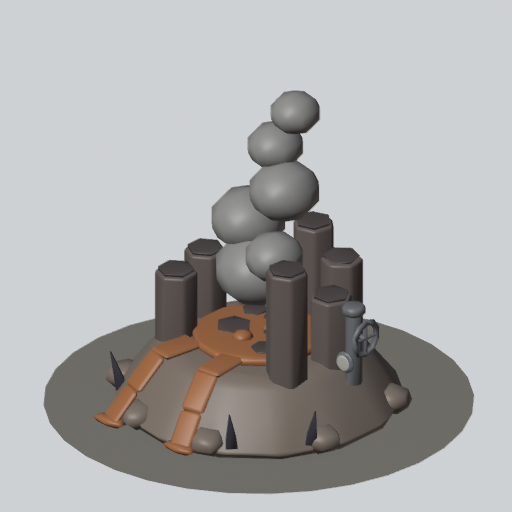
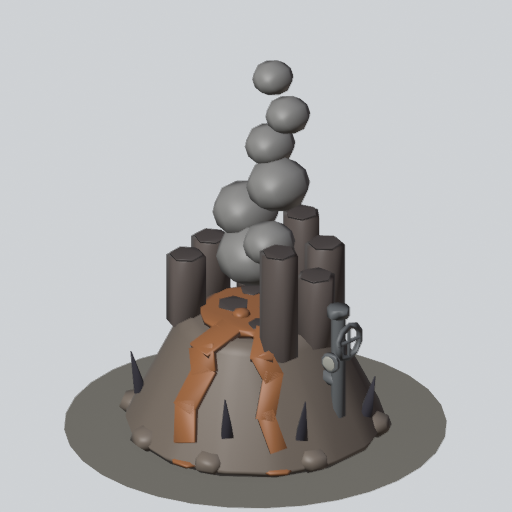
art: Volcano Vent (VENT) bolder upgrades - S1 steep cone twice as tall with the basalt ring on its rim and lava streams, S2 taller still, erupting lava fountains, glowing column tips, brass collar (#443)

Changed region(s): [[0.0625, 0.0938, 0.9375, 1.0]]

diff --git a/tools/art/models/tower/_vent.py b/tools/art/models/tower/_vent.py
@@ -6,10 +6,13 @@ conventions). The columns in the back-right (the owner flag's corner) stay short
 
 Stage 0 (tiers 0-2): the mound, nine basalt columns, the lava pool and crust plates, a lava
                      run down the front, three smoke puffs, scattered rocks.
-Stage 1 (tier 3):    taller columns, a second lava run, obsidian shards, a hunters' pressure
-                     valve (pipe, wheel, gauge) bolted to a column, a bigger plume.
-Stage 2 (tier 5):    brass valve wheel, gauge and pipe bands, the lava glowing, embers in the
-                     smoke.
+Stage 1 (tier 3):    a TALLER CONE - the mound rises into a steep volcano cone twice as high, the
+                     basalt ring (taller columns) on its crater rim, two lava runs down its
+                     slopes, obsidian shards, a hunters' pressure valve, a bigger plume.
+Stage 2 (tier 5):    taller still and ERUPTING - glowing lava fountains bursting up from the
+                     rim, four glowing lava rivers and the pool, glowing column tips round the
+                     rim (the crown), a brass collar round the cone and a brass valve rig.
+                     The crater's middle stays open (the Fire Mountain cone covers it).
 """
 
 import importlib.util
@@ -34,72 +37,104 @@ MOUND_H = 0.62
 def build(lp, stage):
     k = K.Kit(lp)
     hot = stage >= 2
+    lean = stage >= 1
     lava_group = "glow" if hot else "lava"
+    MH = (MOUND_H, 1.25, 1.65)[stage]  # the cone's height: the upgrades raise it
+    TOP = (0.66, 0.56, 0.5)[stage]  # its top radius / base radius
+    RIM = 0.78 if stage == 0 else 1.42 * TOP - 0.06  # the column ring
+
+    def slope(r):  # the cone surface's height at radius r
+        return max(0.05, MH * (1 - r / 1.42) / (1 - TOP))
 
     # the mound
-    k.add("ash", K.cyl((0, MOUND_H / 2, 0), 1.42, MOUND_H, 14, top=0.66, bevel=0.1))
+    k.add("ash", K.cyl((0, MH / 2, 0), 1.42, MH, 14, top=TOP, bevel=0.1))
     k.add("ash", *[K.ell((math.cos(a) * 1.25, 0.12, math.sin(a) * 1.25), (0.22, 0.14, 0.18), 7, 3, rot=(0, -math.degrees(a), 0))
                    for a in (math.radians(d) for d in (150, 200, 250, 290, 330))])  # rocks round the foot
 
     # the ring of hexagonal basalt columns (short in the back-right)
-    cols, tops = [], []
+    cols, tops, tipy = [], [], []
     n = 9
     for i in range(n):
         a = 2 * math.pi * i / n + 0.15
-        x, z = math.cos(a) * 0.78, math.sin(a) * 0.78
-        if z < -0.55:
+        x, z = math.cos(a) * RIM, math.sin(a) * RIM
+        if z < -0.55 * RIM / 0.78:
             continue  # a gap at the front where the lava spills out
         flag = x > 0.2 and z > 0.2  # toward the owner flag's corner
         h = (0.35 if flag else 0.5 + ((i * 7) % 4) * 0.14) + (0.25 if stage >= 1 and not flag else 0.0)
-        y0 = MOUND_H - 0.12
-        cols.append(K.cyl((x, y0 + h / 2, z), 0.21, h, 6, bevel=0.03, rot=(0, (i * 23) % 60, 0)))
+        y0 = MH - 0.12
+        cols.append(K.cyl((x, y0 + h / 2, z), 0.21, h, 6, bevel=0 if lean else 0.03, rot=(0, (i * 23) % 60, 0)))
+        tipy.append((x, y0 + h, z, flag))
         tops.append(K.cyl((x, y0 + h + 0.015, z), 0.17, 0.03, 6, bevel=0.0, rot=(0, (i * 23) % 60, 0)))
     k.add("body", *cols)
     k.add("crust", *tops)
 
     # the lava pool in the crater with crust plates on it
-    k.add(lava_group, K.cyl((0, MOUND_H + 0.03, 0), 0.62, 0.1, 14, bevel=0.03), piece="pool")
-    k.add("crust", *[K.cyl((x, MOUND_H + 0.08, z), r, 0.04, 6, bevel=0.0, rot=(0, rr, 0)) for x, z, r, rr in
+    k.add(lava_group, K.cyl((0, MH + 0.03, 0), RIM - 0.16, 0.1, 14, bevel=0 if lean else 0.03), piece="pool")
+    k.add("crust", *[K.cyl((x, MH + 0.08, z), r, 0.04, 6, bevel=0.0, rot=(0, rr, 0)) for x, z, r, rr in
                      ((-0.22, 0.12, 0.2, 10), (0.24, -0.08, 0.17, 40), (0.06, 0.34, 0.14, 25), (-0.3, -0.25, 0.13, 5), (0.32, 0.3, 0.12, 50))])
-    k.add(lava_group, *[K.ell((x, MOUND_H + 0.08, z), (r, r * 0.7, r), 8, 4) for x, z, r in ((0.02, -0.2, 0.1), (-0.05, 0.1, 0.07))],
+    k.add(lava_group, *[K.ell((x, MH + 0.08, z), (r, r * 0.7, r), 8, 4) for x, z, r in ((0.02, -0.2, 0.1), (-0.05, 0.1, 0.07))],
           piece="blobs")
 
     # lava runs down the front of the mound
-    runs = [(-0.15, -0.12)] + ([(0.35, 0.25)] if stage >= 1 else [])
     run_parts = []
-    for x0, dx in runs:
-        a, b = (x0, MOUND_H + 0.04, -0.5), (x0 + dx * 0.3, MOUND_H + 0.03, -0.92)
-        c, d = (x0 + dx * 0.65, 0.36, -1.18), (x0 + dx, 0.08, -1.4)
-        run_parts += [K.bar(a, b, 0.26, 0.07, bevel=0.03), K.bar(b, c, 0.24, 0.07, bevel=0.03), K.bar(c, d, 0.22, 0.07, bevel=0.03),
-                      K.ell(d, (0.2, 0.05, 0.08), 8, 3)]
+    if stage == 0:
+        for x0, dx in [(-0.15, -0.12)]:
+            a, b = (x0, MOUND_H + 0.04, -0.5), (x0 + dx * 0.3, MOUND_H + 0.03, -0.92)
+            c, d = (x0 + dx * 0.65, 0.36, -1.18), (x0 + dx, 0.08, -1.4)
+            run_parts += [K.bar(a, b, 0.26, 0.07, bevel=0.03), K.bar(b, c, 0.24, 0.07, bevel=0.03), K.bar(c, d, 0.22, 0.07, bevel=0.03),
+                          K.ell(d, (0.2, 0.05, 0.08), 8, 3)]
+    else:  # lava runs spilling over the rim and down the cone's slopes (front, front-left, and the right at stage 2)
+        for ang, w in ((-95, 0.3), (-140, 0.24)) + (((-30, 0.24), (175, 0.22)) if hot else ()):
+            ca, sa = math.cos(math.radians(ang)), math.sin(math.radians(ang))
+            pts = []
+            for i, r in enumerate((RIM - 0.2, RIM + 0.12, 0.95, 1.13, 1.28)):
+                wig = 0.05 * (1 if i % 2 else -1)
+                pts.append((ca * r - sa * wig, slope(r) + 0.05 if i else MH + 0.06, sa * r + ca * wig))
+            nrm = (ca * MH, 1.42 * (1 - TOP), sa * MH)  # the slope's normal: the stream lies flat on it
+            run_parts += [K.bar(K.along(pts[i], pts[i + 1], -0.12), K.along(pts[i], pts[i + 1], 1.12), w - 0.02 * i, 0.08, bevel=0,
+                                up=nrm if i else (0, 1, 0)) for i in range(len(pts) - 1)]  # overlapping, so the run reads as one stream
+            run_parts.append(K.ell((pts[-1][0], 0.07, pts[-1][2]), (0.14, 0.05, 0.18), 6, 3, rot=(0, -ang, 0)))
     k.add(lava_group, *run_parts, piece="runs")
 
     # the smoke plume
     puffs = [(0.0, 1.35, 0.0, 0.42), (0.22, 1.75, 0.1, 0.36), (-0.12, 2.1, 0.22, 0.34), (0.1, 2.45, 0.34, 0.27)]
     if stage >= 1:
-        puffs += [(-0.05, 2.8, 0.45, 0.24), (-0.3, 1.6, -0.12, 0.28)]
-    k.add("smoke", *[K.ell((x, y, z), (r, r * 0.85, r), 10, 6) for x, y, z, r in puffs])
+        puffs += [(-0.05, 2.8, 0.45, 0.24), (-0.3, 1.6, -0.12, 0.28), (0.25, 3.1, 0.55, 0.22)]
+    rise = MH - MOUND_H  # the plume rides on the taller cone
+    k.add("smoke", *[K.ell((x, y + rise, z), (r, r * 0.85, r), 8 if lean else 10, 5 if lean else 6) for x, y, z, r in puffs
+                       if y + rise + r * 0.85 < 4.95])
 
     brass = []
     if stage >= 1:
-        # obsidian shards on the mound
-        k.add("obsidian", *[K.rod((x, 0.12, z), (x * 1.08, 0.48, z * 1.08), 0.08, 4, top=0.1) for x, z in ((-1.15, -0.55), (-0.65, -1.1), (0.95, -0.85))])
-        # a pressure valve on the left column: a pipe out of the mound, a wheel and a gauge
-        vx, vz = -1.05, 0.15
-        pipe = [K.rod((-0.55, 0.45, vz), (vx, 0.45, vz), 0.08, 8), K.rod((vx, 0.45, vz), (vx, 1.15, vz), 0.08, 8)]
-        k.add("metal", *pipe, K.cyl((vx, 1.2, vz), 0.12, 0.1, 8))
-        k.add("brass" if hot else "metal", K.ring((vx - 0.15, 0.95, vz), 0.16, 0.035, 10, 3, rot=(0, 0, 90)),
-              K.rod((vx - 0.15, 0.95, vz - 0.16), (vx - 0.15, 0.95, vz + 0.16), 0.02, 4),
-              K.rod((vx - 0.15, 0.79, vz), (vx - 0.15, 1.11, vz), 0.02, 4), piece="wheel")
-        k.add("metal", K.rod((vx, 0.95, vz), (vx - 0.15, 0.95, vz), 0.03, 4))
-        k.add("brass" if hot else "metal", K.cyl((vx, 0.7, vz - 0.12), 0.11, 0.05, 10, rot=(90, 0, 0)), piece="gauge")
-        k.add("dial", K.cyl((vx, 0.7, vz - 0.15), 0.08, 0.02, 10, rot=(90, 0, 0)))
+        # obsidian shards on the slopes
+        k.add("obsidian", *[K.rod((x, slope(math.hypot(x, z)) - 0.05, z), (x * 1.08, slope(math.hypot(x, z)) + 0.4, z * 1.08), 0.09, 4, top=0.1)
+                            for x, z in ((-1.1, -0.5), (-0.55, -1.05), (0.9, -0.8), (-1.15, 0.45))])
+        # a hunters' pressure valve on the left slope: a pipe out of the cone, a wheel and a gauge
+        vx, vz = -1.12, 0.05
+        vy = slope(1.0)
+        k.add("metal", K.rod((-0.9, vy, vz), (vx, vy, vz), 0.08, 6), K.rod((vx, slope(1.15) - 0.1, vz), (vx, vy + 0.75, vz), 0.08, 6),
+              K.cyl((vx, vy + 0.8, vz), 0.12, 0.1, 8, bevel=0))
+        k.add("brass" if hot else "metal", K.ring((vx - 0.15, vy + 0.5, vz), 0.18, 0.04, 10, 3, rot=(0, 0, 90)),
+              K.rod((vx - 0.15, vy + 0.5, vz - 0.18), (vx - 0.15, vy + 0.5, vz + 0.18), 0.025, 4),
+              K.rod((vx - 0.15, vy + 0.32, vz), (vx - 0.15, vy + 0.68, vz), 0.025, 4), piece="wheel")
+        k.add("brass" if hot else "metal", K.cyl((vx, vy + 0.25, vz - 0.12), 0.11, 0.05, 10, rot=(90, 0, 0), bevel=0), piece="gauge")
+        k.add("dial", K.cyl((vx, vy + 0.25, vz - 0.15), 0.08, 0.02, 10, rot=(90, 0, 0), bevel=0))
 
     if hot:
-        brass += [K.ring_along((vx, y, vz), (vx, y + 1, vz), 0.09, 0.025, 8, 3) for y in (0.6, 1.05)]
-        k.add("glow", *[K.ell((x, y, z), (0.05, 0.05, 0.05), 6, 4) for x, y, z in ((0.3, 1.6, -0.2), (-0.3, 2.0, 0.25), (0.25, 2.7, -0.15), (-0.2, 3.1, 0.3))],
-              piece="embers")
-        k.add("brass", *brass)
+        # the crown: glowing tips on the rim's columns
+        k.add("glow", *[K.cyl((x, y + 0.08, z), 0.19, 0.16, 6, bevel=0, top=0.6) for x, y, z, flag in tipy if not flag], piece="tips")
+        # the eruption: fountains of lava bursting up out of the rim's gaps, blobs flung off their tops
+        spurts = []
+        for ang in (-90, 150, 30, -150):
+            ca, sa = math.cos(math.radians(ang)), math.sin(math.radians(ang))
+            base = (ca * (RIM - 0.05), MH, sa * (RIM - 0.05))
+            tip = (ca * (RIM + 0.3), MH + 0.95, sa * (RIM + 0.3))
+            spurts += [K.rod(base, tip, 0.2, 6, top=0.3), K.ell(K.along(base, tip, 1.15), (0.13, 0.15, 0.13), 6, 3),
+                       K.ell((ca * (RIM + 0.5), MH + 0.95, sa * (RIM + 0.5)), (0.08, 0.08, 0.08), 5, 3)]
+        k.add("glow", *spurts, piece="bombs")
+        # a brass collar round the cone, brass bands on the valve pipe
+        k.add("brass", K.ring((0, slope(1.3) - 0.02, 0), 1.3, 0.05, 14, 3),
+              *[K.ring_along((vx, y, vz), (vx, y + 1, vz), 0.1, 0.03, 8, 3) for y in (vy + 0.1, vy + 0.62)])
 
     colors = {
         "body": BASALT, "ash": ASH, "crust": CRUST, "lava": LAVA, "smoke": SMOKE, "obsidian": OBSIDIAN,
